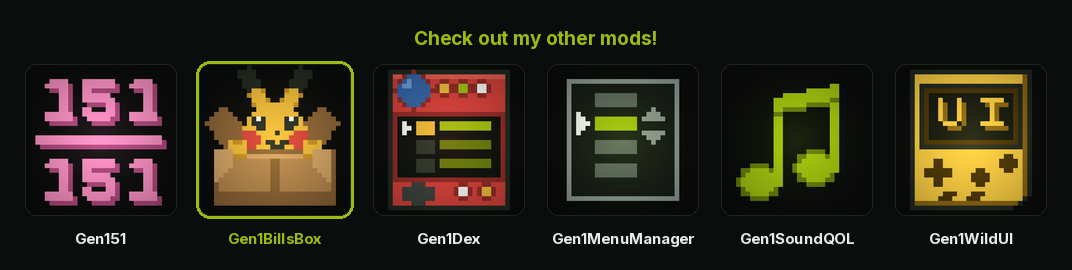
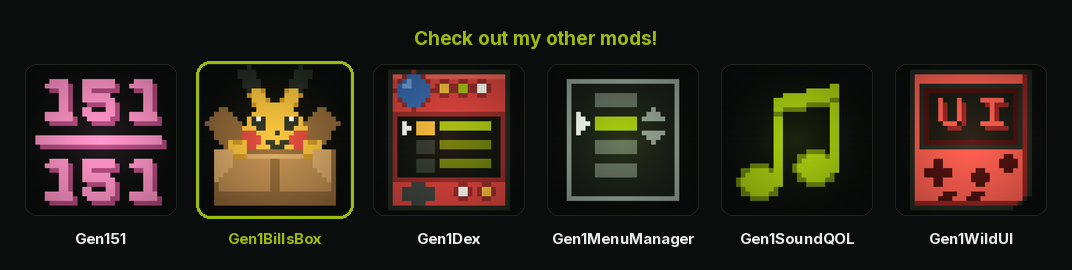
Make the UI bundle a red Game Boy
The two halves were the same gold console reading different words, which meant
telling them apart in the index required reading the screen. They are now told
apart by colour first: gold for QOL, red for UI.

bundle_icon takes the case as four tones of one hue -- lit, mid, shadow, and a
near-black for the cut lines -- so one drawing produces either. The red is
built out from the RED the index already uses for its Poke Balls rather than
picked fresh, so the UI card sits in the same family as the icons around it.

The gold thumbnail comes out byte-identical after the refactor, which is the
check that the parameterisation did not change the drawing.

Claude-Session: https://claude.ai/code/session_01Ss9iSLPGcCFDPUbQKjRsfj

Changed region(s): [[0.8312, 0.2667, 0.9851, 0.7704]]

diff --git a/tools/make_icons.py b/tools/make_icons.py
@@ -858,10 +858,27 @@ def sprint():
 # Pokemon stands in it.  Everything else in the index is an object -- a shoe,
 # a bag, a ball -- and that is the point of the difference.
 
-GOLD    = (0xf5, 0xc9, 0x42)   # the case, lit
-GOLD_M  = (0xc9, 0x9c, 0x28)   # its mid tone, and the bezel
-GOLD_D  = (0x8a, 0x66, 0x12)   # its shadowed edges
-GOLD_K  = (0x4a, 0x35, 0x08)   # the darkest gold, for cut lines
+# Two cases, one drawing. Each is four tones of the same hue -- lit, mid,
+# shadow, and a near-black for the cut lines -- so the same code draws either
+# by being handed a different four.
+#
+# The halves are told apart by colour and by nothing else, which is the point:
+# they are the same console, and a reader scanning the index should be able to
+# tell which is which without reading the screen.
+GOLD    = (0xf5, 0xc9, 0x42)
+GOLD_M  = (0xc9, 0x9c, 0x28)
+GOLD_D  = (0x8a, 0x66, 0x12)
+GOLD_K  = (0x4a, 0x35, 0x08)
+CASE_GOLD = (GOLD, GOLD_M, GOLD_D, GOLD_K)
+
+# Built out from the index's own RED rather than picked fresh, so the UI card
+# sits in the same family as the Poke Ball on the icons that use one.
+RED_L   = (0xef, 0x5a, 0x4c)
+RED_M   = (0xd0, 0x41, 0x3a)
+RED_D   = (0x8e, 0x24, 0x20)
+RED_K   = (0x46, 0x10, 0x0d)
+CASE_RED = (RED_L, RED_M, RED_D, RED_K)
+
 LCD     = (0x14, 0x1a, 0x11)   # the screen, off
 
 
@@ -875,8 +892,8 @@ BUTTON_ROWS = [
 ]
 
 
-def bundle_icon(text, gap=2):
-    """A gold Game Boy with the word on its screen.
+def bundle_icon(text, case=CASE_GOLD, gap=2):
+    """A Game Boy with the word on its screen, in the case colour given.
 
     The console is the suite and the screen says which half of it, which is
     why the word is on the screen rather than under the console: an icon with
@@ -893,18 +910,19 @@ def bundle_icon(text, gap=2):
     slanted pills for START and SELECT.
     """
     a = Art()
+    lit, mid, dark, cut = case
 
     X0, X1 = 3, 28
     Y0, Y1 = 1, 30
 
     # ------- the case
-    a.rect(X0, Y0, X1, Y1, GOLD)
+    a.rect(X0, Y0, X1, Y1, lit)
     # A bevel rather than a flat fill: light off the top-left, shadow into
     # the bottom-right, which is what stops a rounded rectangle of one colour
     # reading as a sticker.
-    a.rect(X0, Y1 - 1, X1, Y1, GOLD_D)
-    a.rect(X1 - 1, Y0, X1, Y1, GOLD_D)
-    a.rect(X0, Y0, X1, Y0, GOLD_M)
+    a.rect(X0, Y1 - 1, X1, Y1, dark)
+    a.rect(X1 - 1, Y0, X1, Y1, dark)
+    a.rect(X0, Y0, X1, Y0, mid)
     a.frame(X0, Y0, X1, Y1, INK)
 
     # The DMG's one asymmetric corner, bottom right, is the detail that says
@@ -921,13 +939,13 @@ def bundle_icon(text, gap=2):
     # Set down from the top edge rather than against it. Butted up, the strip
     # of case left above it reads as a seam and the whole thing looks like a
     # lid.
-    a.rect(5, 4, 26, 17, GOLD_D)
+    a.rect(5, 4, 26, 17, dark)
     a.frame(5, 4, 26, 17, INK)
     a.rect(6, 6, 25, 15, LCD)
-    a.frame(6, 5, 25, 16, GOLD_K)
+    a.frame(6, 5, 25, 16, cut)
 
     width = word_width(text, glyphs=LETTERS_SMALL, gap=gap)
-    word(a, 6 + (20 - width) // 2, 7, text, GOLD, GOLD_D,
+    word(a, 6 + (20 - width) // 2, 7, text, lit, dark,
          glyphs=LETTERS_SMALL, gap=gap)
 
     # ------- the controls
@@ -936,32 +954,32 @@ def bundle_icon(text, gap=2):
     # slanted between them: the arrangement is doing more work here than any
     # single piece of it, so each is placed where the eye expects it rather
     # than where it fits best.
-    a.rect(6, 22, 11, 23, GOLD_K)      # cross, horizontal arm
-    a.rect(8, 20, 9, 25, GOLD_K)       # cross, vertical arm
+    a.rect(6, 22, 11, 23, cut)      # cross, horizontal arm
+    a.rect(8, 20, 9, 25, cut)       # cross, vertical arm
 
     # A above and right of B, with air between them and between both and the
     # stubs below: at four pixels across, anything closer than two pixels
     # merges into one shape once the icon is looked at small.
-    stamp(a, 22, 19, BUTTON_ROWS, {"#": GOLD_K})   # A
-    stamp(a, 16, 22, BUTTON_ROWS, {"#": GOLD_K})   # B
+    stamp(a, 22, 19, BUTTON_ROWS, {"#": cut})   # A
+    stamp(a, 16, 22, BUTTON_ROWS, {"#": cut})   # B
 
     # START and SELECT: two stubs on the slant the real pair sits at.
-    a.rect(9, 28, 11, 28, GOLD_K)
-    a.rect(10, 27, 12, 27, GOLD_K)
-    a.rect(15, 28, 17, 28, GOLD_K)
-    a.rect(16, 27, 18, 27, GOLD_K)
+    a.rect(9, 28, 11, 28, cut)
+    a.rect(10, 27, 12, 27, cut)
+    a.rect(15, 28, 17, 28, cut)
+    a.rect(16, 27, 18, 27, cut)
 
-    return a, GOLD
+    return a, lit
 
 
 def wild_qol():
-    """QOL in the grass."""
-    return bundle_icon("QOL")
+    """A gold Game Boy reading QOL."""
+    return bundle_icon("QOL", CASE_GOLD)
 
 
 def wild_ui():
-    """UI in the grass."""
-    return bundle_icon("UI", gap=4)
+    """A red Game Boy reading UI."""
+    return bundle_icon("UI", CASE_RED, gap=4)
 
 
 ICONS = {
